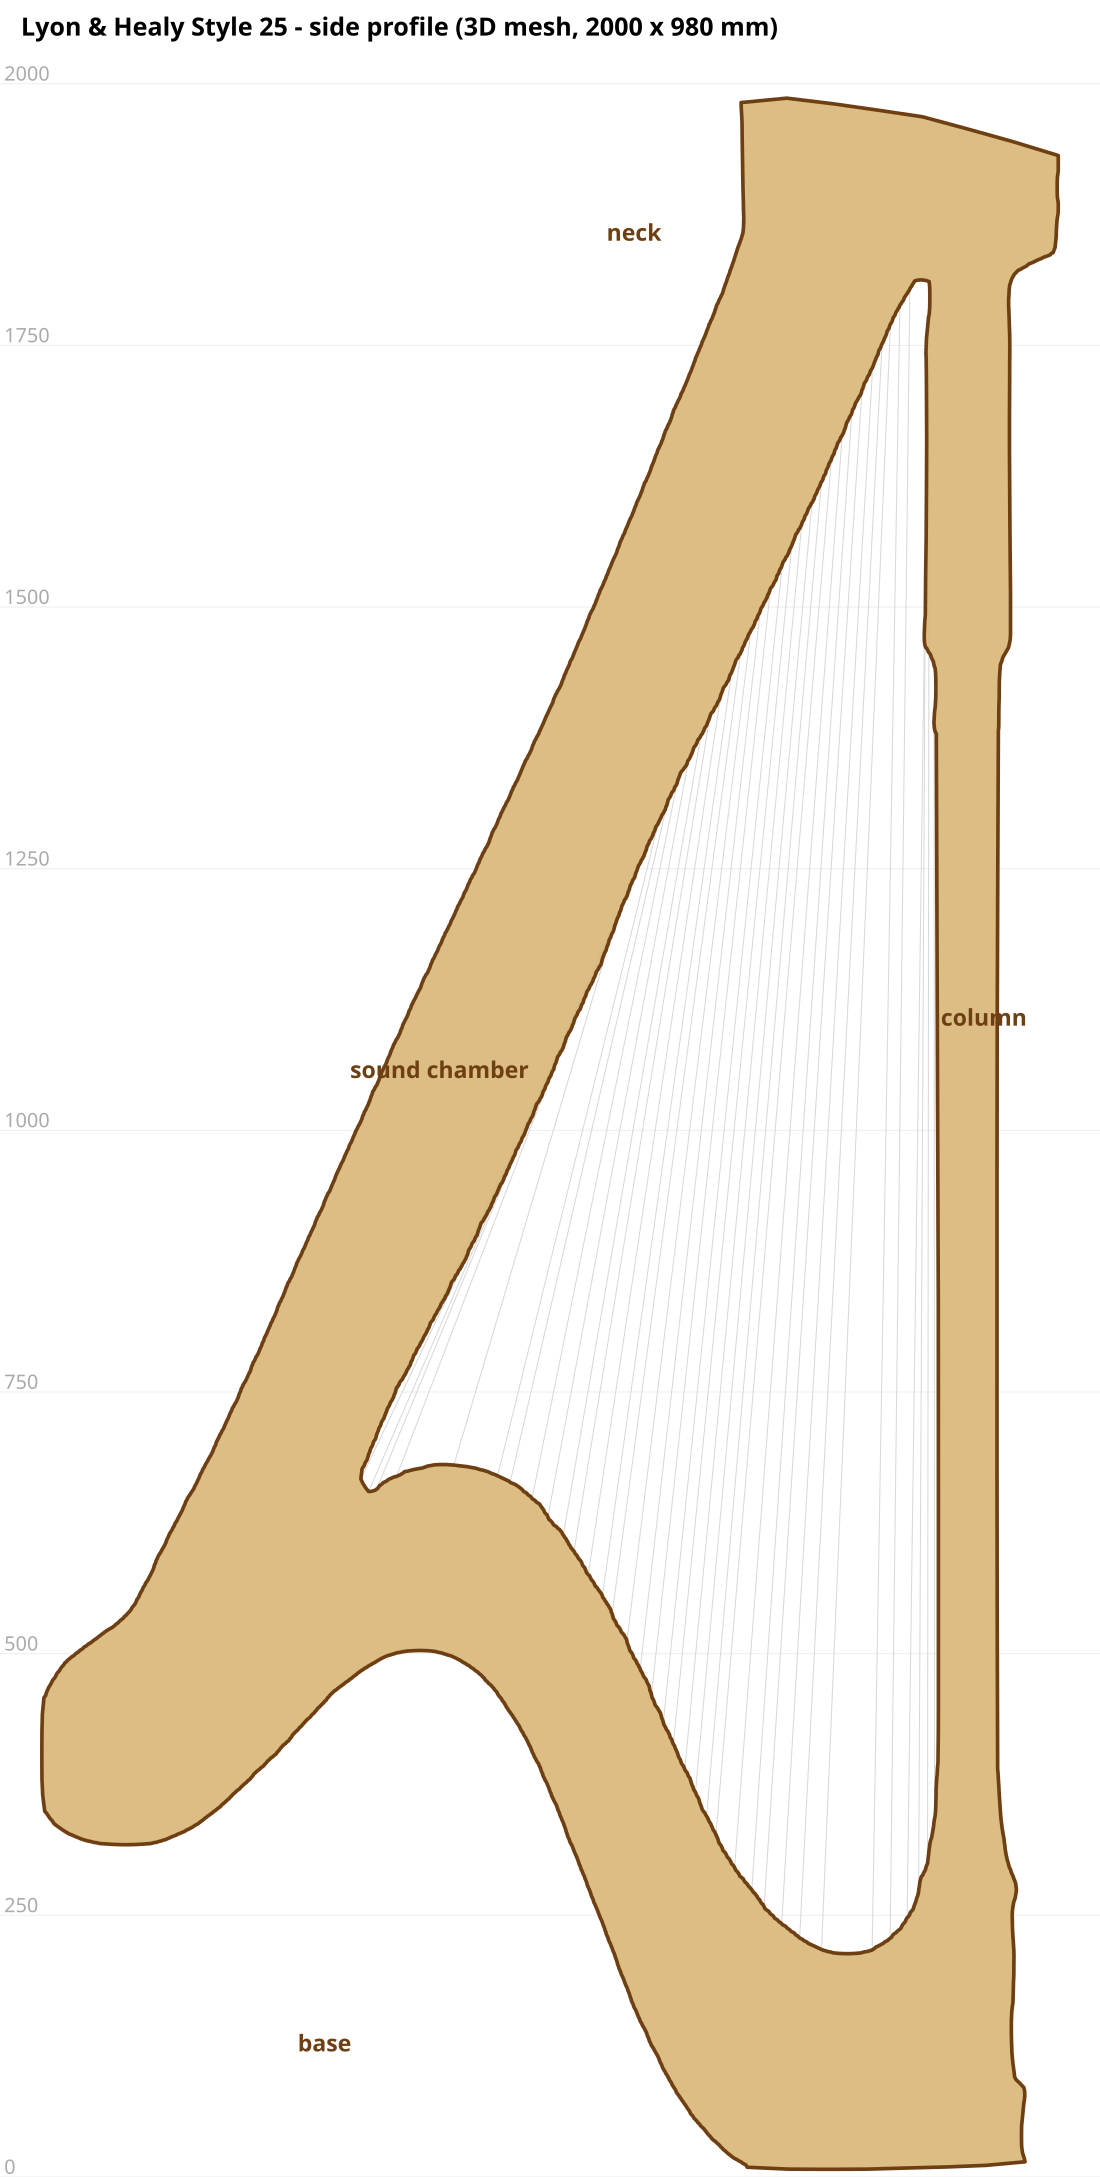
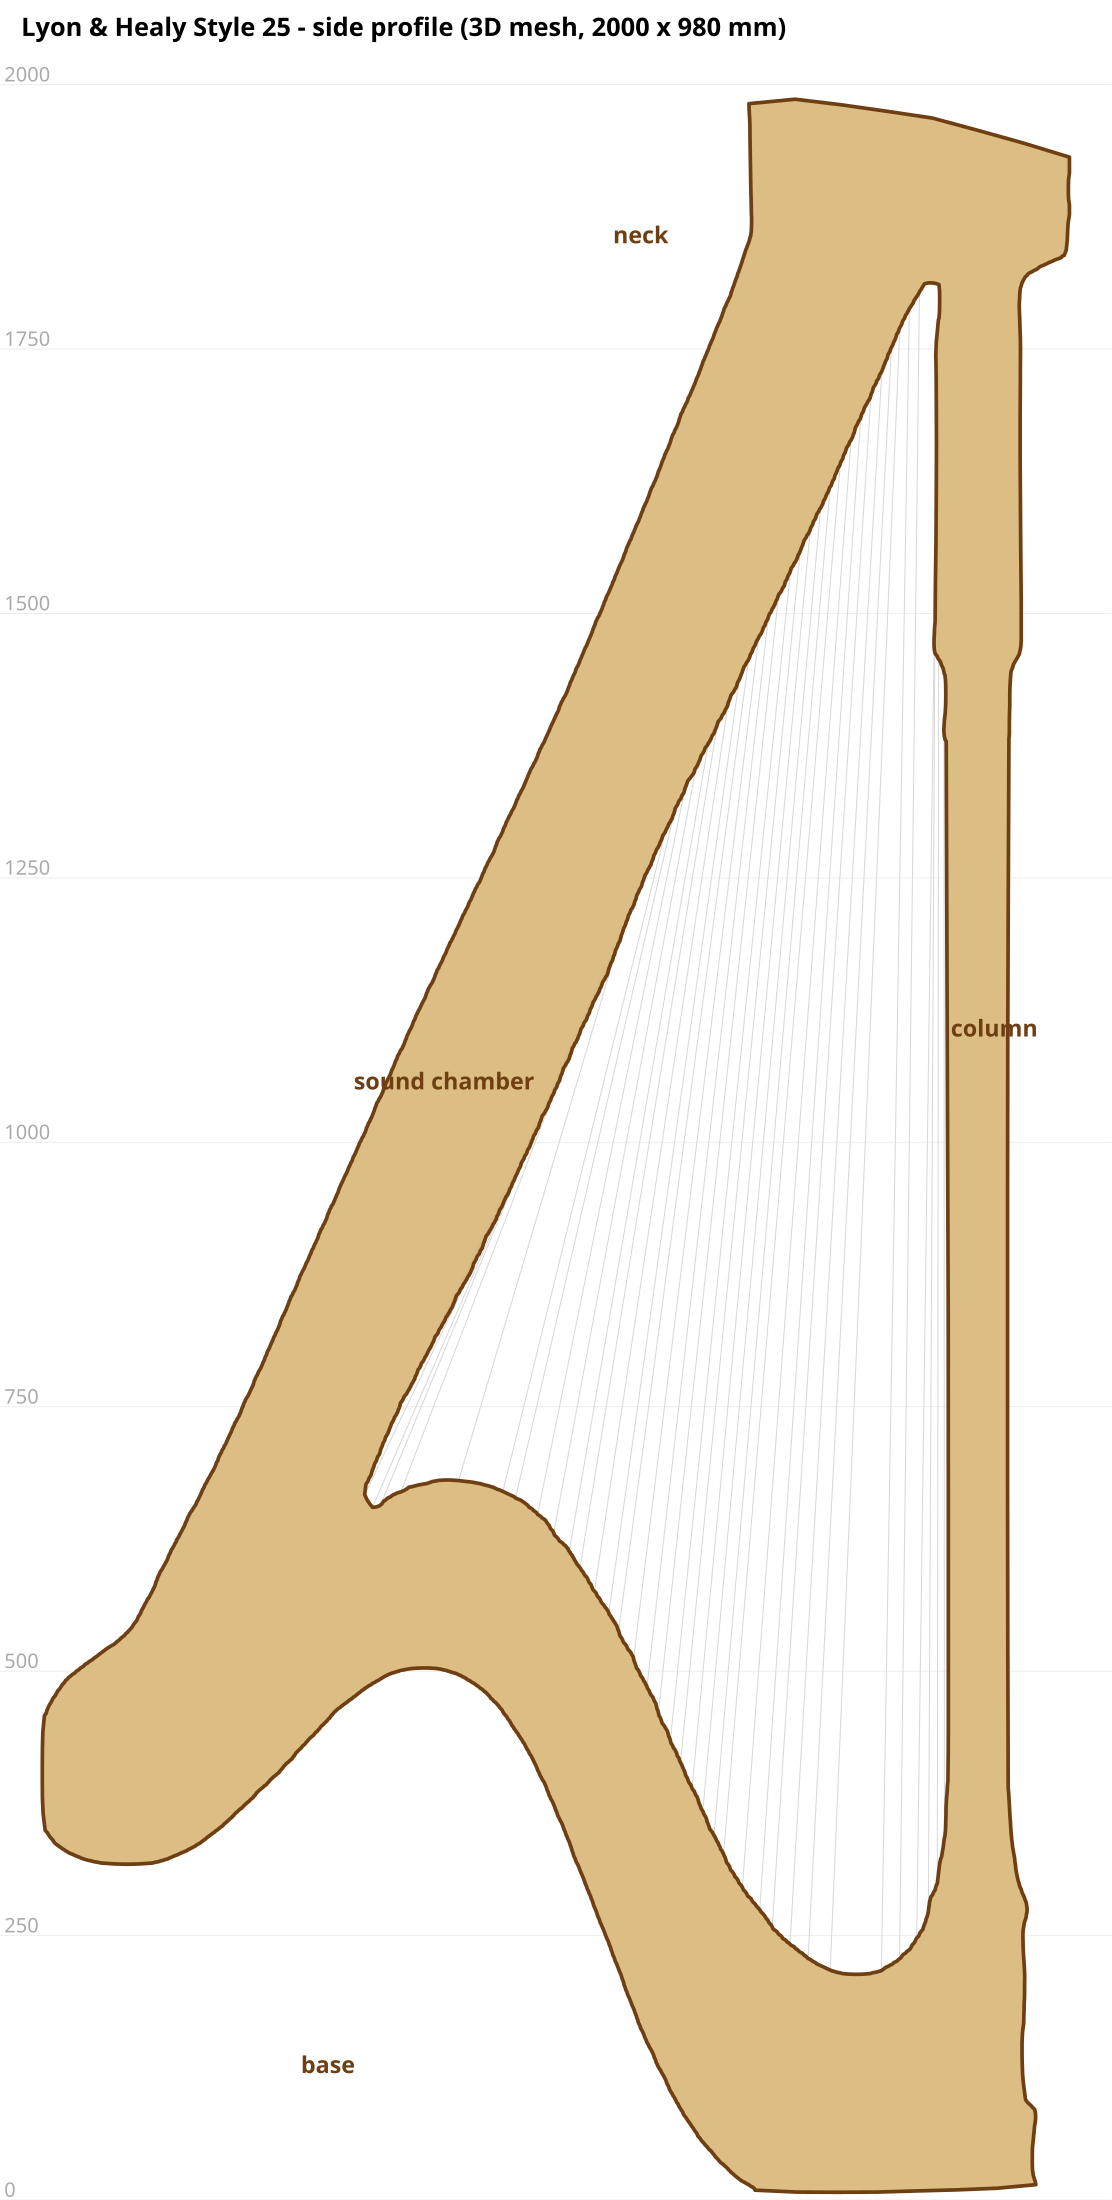
Round 5: mesh-informed soundboard taper, consistency check (all pass), high-res renders, clean README

Changed region(s): [[0.8964, 0.4373, 0.9273, 0.4685]]

diff --git a/HARP_README.md b/HARP_README.md
@@ -1,0 +1,49 @@
+# Lyon & Healy Style 25 — reconstructed profile & soundboard
+
+Reconstruction of a real L&H Style 25 concert harp: **side profile**, **soundboard face**,
+and the **47-string G/S/N/F/T/U/L geometry**, fusing the owner's tape measurements with
+shape from photos and a 3D mesh, then physics-refined.
+
+## Coordinate frame
+ZX plane, **Y = 0**. **X** = across the front (bass C1 = 0 → treble G7 = 643 mm).
+**Z** = height above floor (0 → 2000 mm crown). All deliverables share this frame and derive
+from one source table, `lhstyle25_grid2m.csv`.
+
+## Deliverables
+| file | what |
+|---|---|
+| `style25_profile.svg/.png` | side silhouette (column/neck/chamber/base) — from 3D mesh, 2000×980 mm |
+| `style25strings.svg/.png` | **the profile dots** — 47 strings × G/S/N/F/T + neck band U/L |
+| `style25soundboard.svg/.png` | **soundboard face** — teardrop, 360 mm bass, 47 grommets |
+| `style25_soundbox_xsection.png` | lemicon cross-section (flat face + round back) |
+| `style25_engineering_sheet.png` | one-page: profile + face + spec |
+| `style25_physics_validation.png` | tension/frequency validation |
+| `lhstyle25_grid2m.csv` | **source table**: X + g/s/n/f/t/L/U per string |
+| `lhstyle25_neck_spec.csv` | disc/pin gaps + buildability flag per string |
+
+## How each dot is derived
+- **G grommet** — measured grommet rib (straight, 23.5° from vertical).
+- **F flat pin** — vibrating-string physics: open string sounds its **flat pitch** (C♭ major),
+  `f = (1/2L)√(T/μ)`; per-material **smooth design-tension** recomputes L; **50/50 blend** with tape
+  (50/50 recovers the smoothest scale given stepped published diameters). Wound bass = measured.
+- **S sharp / N natural** — F × 2^(−2/12), 2^(−1/12) (semitone disc steps).
+- **T tuner** — F + 35 mm (non-speaking length).
+- **U/L neck edges** — quartic-bezier fit to the harmonic curve (U bass-anchored to your hand reads).
+
+## Validated
+- Design tension smooth (8% denoise); flat-pitch frequencies exact; treble strings octave-halve.
+- F **invariant** to uniform diameter scaling → robust to the gauge/tension uncertainty.
+- Ordering g<L<S<N<F<T<U: 47/47. Disc mechanism buildable (top octave = compact fourchettes).
+- All deliverables cross-checked to one source frame.
+
+## Measured vs derived vs estimated
+- **Measured (authoritative):** string lengths, grommets/rib, soundboard 23.5°/1610 mm, bass face 360 mm,
+  2000 mm height (tile-grid confirmed), C1/C2 neck-top U, string spacing, diameters/materials.
+- **Physics-derived:** refined F, and S/N from semitone ratios.
+- **Shape from mesh:** side silhouette, soundboard taper, lemicon.
+- **Estimated:** U/L (bezier), soundboard bottom contraction, soundbox depth (owner: out of scope).
+
+## To make it exact (needs owner)
+- The 16 off-frame bass **U** values, read directly.
+- One or two more **soundboard face widths** (mid + treble) to pin the taper.
+- (Soundbox depth intentionally out of scope — acoustic analysis will set it.)
